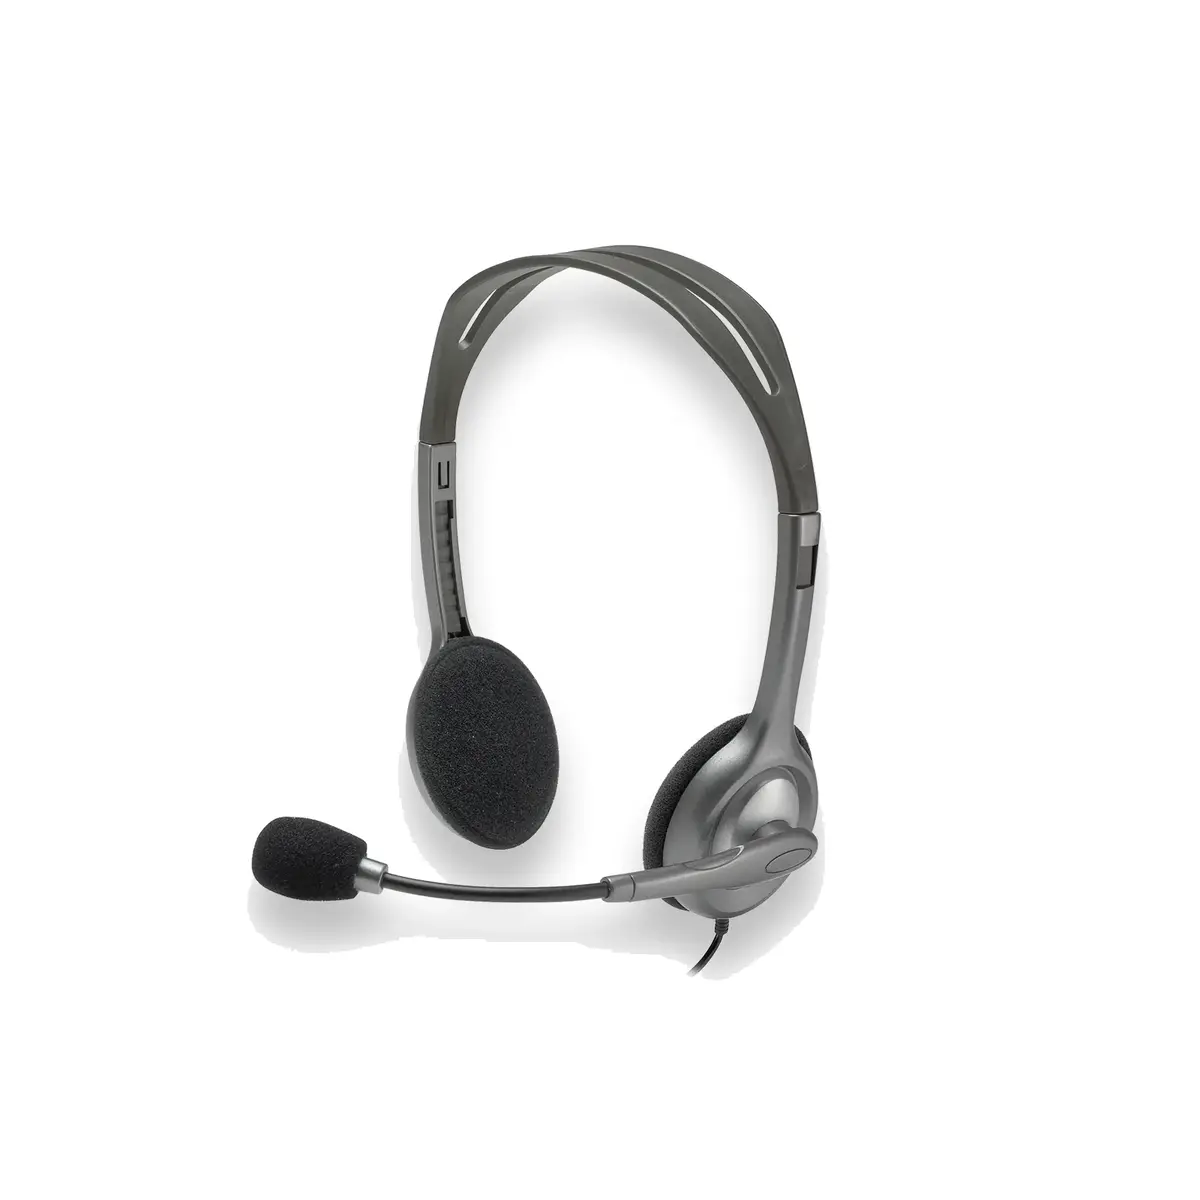
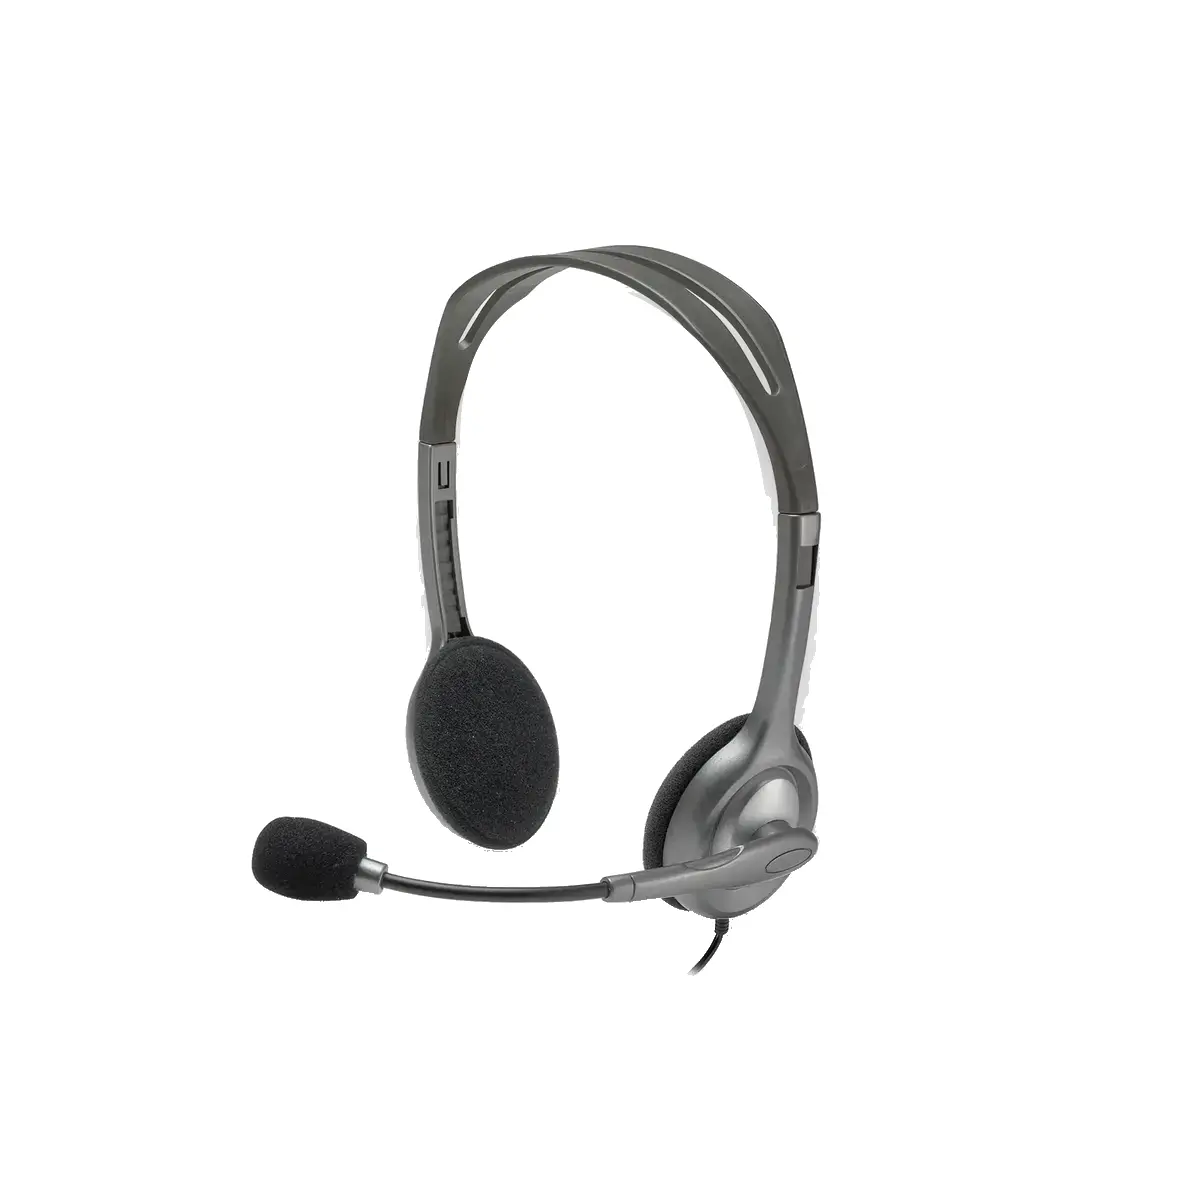
Normalize headphone photo backgrounds

diff --git a/PROJECT_STATUS.md b/PROJECT_STATUS.md
@@ -1029,3 +1029,17 @@ After owner review, continue with photos for other categories. Laptops after com
 - Все 38 локальных файлов проверены как декодируемые WebP; у обработанных файлов четыре угловых пикселя имеют `#FFFFFF`, прозрачных прямоугольных подложек нет.
 - Для двух заменённых комплектов проверено точное соответствие официальным страницам Logitech MK470 и MK220; клавиатура и мышь полностью помещаются в кадр.
 - Проверены существующие пути в `products.json`, включая дополнительные кадры галерей; структура каталога и универсальная галерея не изменялись.
+
+## Нормализация фона фотографий наушников (2026-11-08)
+
+- Проверены все 7 товаров категории «Наушники»: `headphones-1`–`headphones-7`.
+- В текущем каталоге у каждой модели используется один `main.webp`; дополнительных файлов в папках наушников нет.
+- Обработаны все 7 активных WebP: внешний фон приведён к непрозрачному однотонному `#FFFFFF`, включая оттенок `#FFFFFE` у Baseus Bowie D05 и серые тени вокруг Logitech H110.
+- Сохранены исходные корпуса, цвета, маркировка, детали, пропорции, расположение и масштаб устройств. Холсты не менялись: 800×800, 890×890, 1200×1200, 1400×1400, 1000×1000, 1400×788 и 1400×1400.
+- Файлы сохранены в WebP с прежними именами и путями; изображения не обрезались и не растягивались.
+
+### Проверки этапа
+
+- Проверены пути в `products.json`, карточки `rgw_page_headphones.html` и универсальная галерея `product.html?id=...`; все 7 записей продолжают ссылаться на свои локальные изображения.
+- У всех 7 WebP четыре угла и внешняя 8-пиксельная рамка имеют точный цвет `#FFFFFF`; визуально проверено отсутствие серых/цветных прямоугольников и остаточных теней фона.
+- `product.html`, `product.js`, CSS каталога, hover-анимация, размеры карточек, мобильная разметка, названия, цены, характеристики, ID, SKU, фильтры, сортировка, `price.csv` и другие категории не изменялись.
